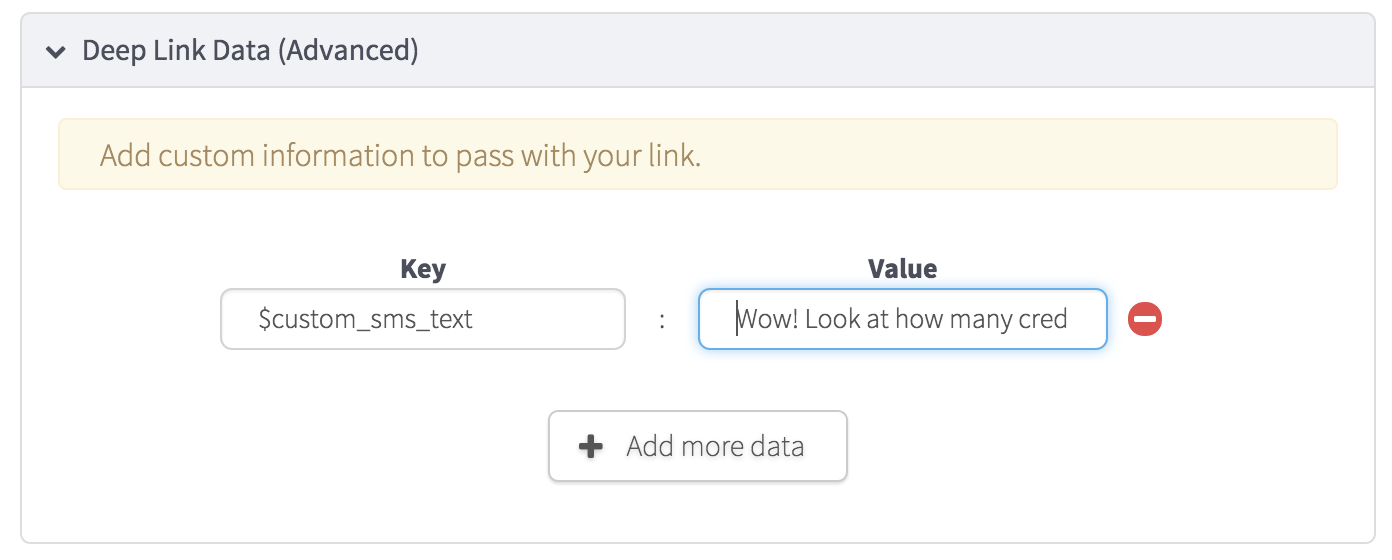
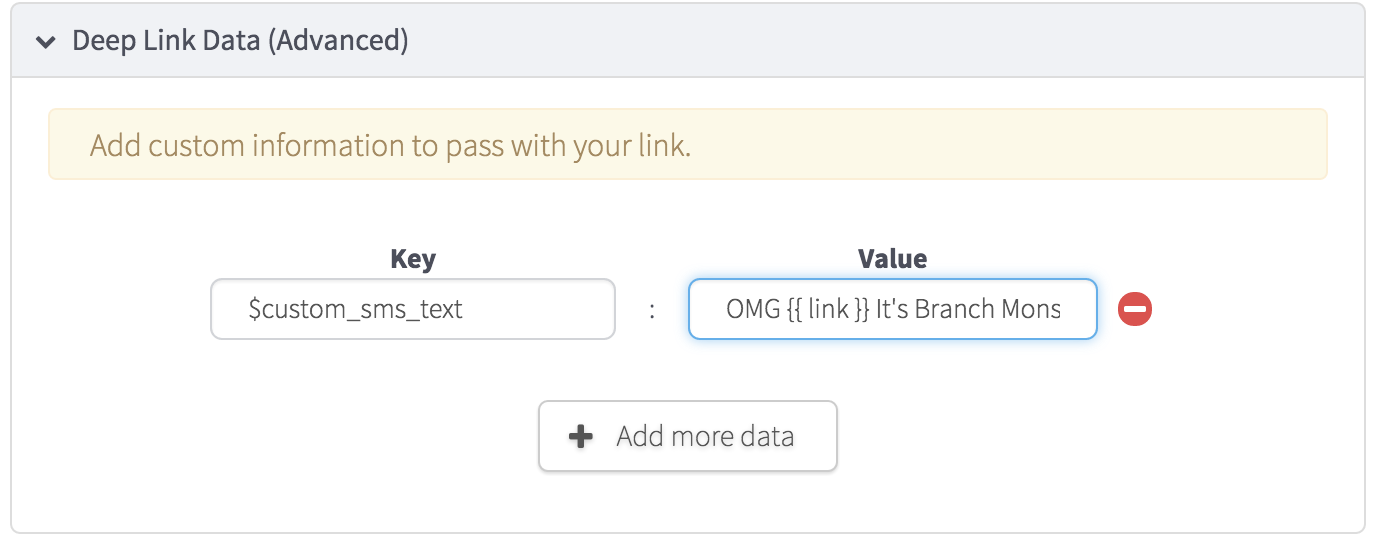
Added new sections and updated some screenshots

diff --git a/ingredients/dashboard_setup/sms_customization.md b/ingredients/dashboard_setup/sms_customization.md
@@ -20,7 +20,7 @@ For ads in Germany:
 `Klicken Sie auf das FlowerPower hier herunterladen {{ link }}`
 
 ####2. Custom Default for All Messages
-You can create your own custom default message that will be sent if the specific link someone clicks doesn't have a customized message itself. To customize the default message, edit the form under the *Text me the app page* tab in the general settings	.
+You can create your own custom default message that will be sent if the specific link someone clicks doesn't have a customized message itself. To customize the default message, edit the form under the *Text me the app page* tab in the general settings	.  
 ![Default Text](/img/ingredients/dashboard_setup/default_message.png)
 
 _Example:_  
@@ -36,4 +36,27 @@ If a developer doesn't specify a link specific message or a custom default, SMS 
 #### Reference:
 - The tag _\{\{ link \}\}_ is replaced with your Branch link when sent
 - The key `$custom_sms_text` is used for creating link specific custom SMSs
-- *Advanced:* In both the link specific custom messages and the custom default message, there is support for other liquid tags like _\{\{ link.channel \}\}_ or _\{\{ link.campaign \}\}_
+
+#### Advanced: Other Liquid Tags
+In both the link specific custom messages and the custom default message, there is support for other liquid tags like   _\{\{ link.channel \}\}_ or _\{\{ link.campaign \}\}_. The customization options are only limited to your imagination.
+
+Make sure to format the liquid tag with the link.data prefix before your key value.
+
+E.g. _\{\{ link.data.title \}\}_
+
+_Example:_  
+Dmitri is creating Branch links to deeplink to each of the different flowers in his app FlowerPower. He creates each link with a key/value pair of the key _flower_ and the flower name. 
+
+E.g. `Flower : Rose`, `Flower : Tulip`
+
+He wants to customize his SMS messages based on name of the flower so he sets his custom link messages as:  
+
+_\{\{ link.data.flower \}\}s on the mind? Click here to buy some for your home on FlowerPower! \{\{ link \}\}_  
+![Key/Value Pair](/img/ingredients/dashboard_setup/key_value.png)
+
+#### Advanced: Default Replacements for Liquid Tags
+If a specific tag isn't always going to be filled, you can use a `|` character to specify a default to fallback on if the tag is missing from your link dictionary.
+
+E.g. _\{\{ link.data.author \| default:"Alex" \}\}_
+
+If the _link.data.author_ information isn't found, the tag will just be replaced with _Alex_ instead of being replaced by an empty string.
